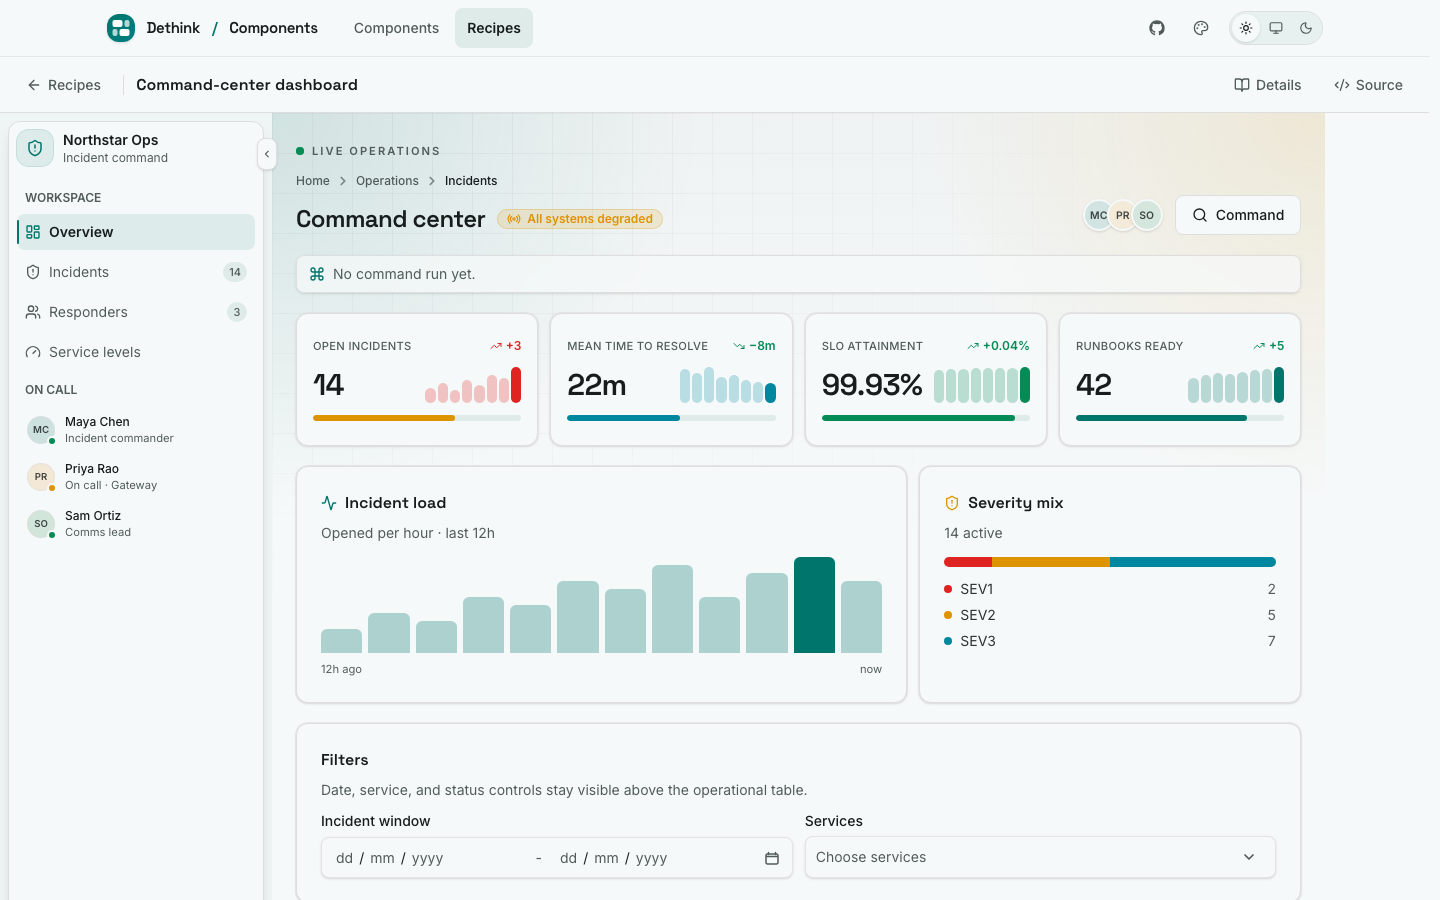
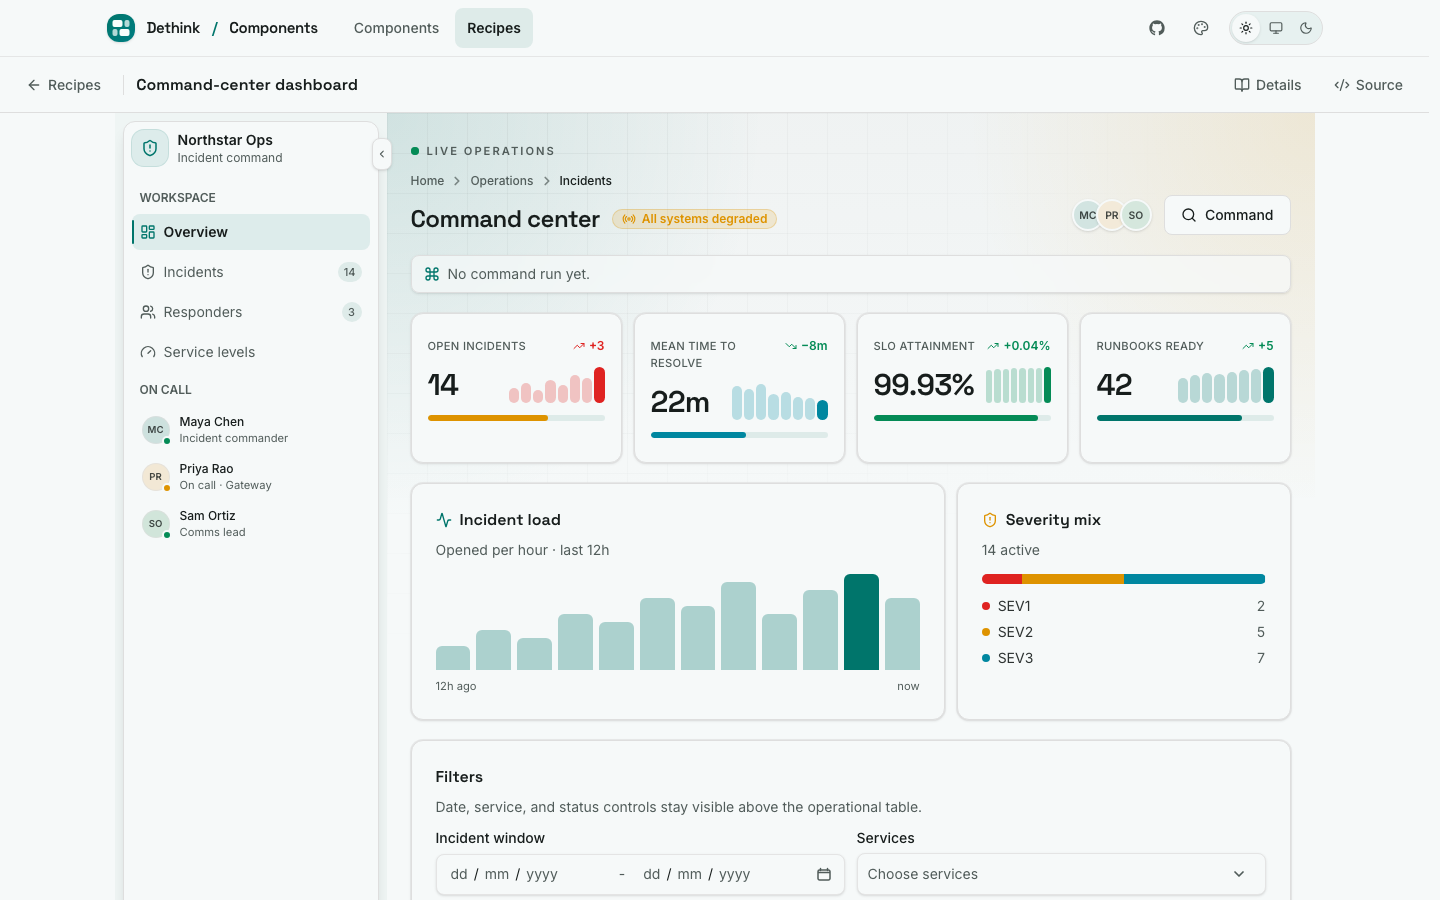
fix: constrain recipe demo width

diff --git a/e2e/showcase-recipe-full-page.spec.ts b/e2e/showcase-recipe-full-page.spec.ts
@@ -54,8 +54,8 @@ test.describe("showcase full-page recipe shell", () => {
       .boundingBox();
 
     expect(previewBounds).not.toBeNull();
-    expect(previewBounds!.x).toBe(0);
-    expect(previewBounds!.width).toBe(layoutWidth);
+    expect(previewBounds!.x).toBeCloseTo((layoutWidth - 1200) / 2, 0);
+    expect(previewBounds!.width).toBe(1200);
     expect(previewBounds!.y).toBeLessThanOrEqual(120);
     expect(previewBounds!.y + previewBounds!.height).toBeGreaterThanOrEqual(
       900,
@@ -150,10 +150,17 @@ test.describe("showcase full-page recipe shell", () => {
         const layoutWidth = await page.evaluate(
           () => document.body.clientWidth,
         );
+        const expectedWidth = Math.min(layoutWidth, 1200);
+        const expectedStart = (layoutWidth - expectedWidth) / 2;
 
         expect(previewBounds, `${slug} preview bounds`).not.toBeNull();
-        expect(previewBounds!.x, `${slug} preview start`).toBe(0);
-        expect(previewBounds!.width, `${slug} preview width`).toBe(layoutWidth);
+        expect(previewBounds!.x, `${slug} preview start`).toBeCloseTo(
+          expectedStart,
+          0,
+        );
+        expect(previewBounds!.width, `${slug} preview width`).toBe(
+          expectedWidth,
+        );
         expect(previewBounds!.y, `${slug} preview top`).toBeLessThanOrEqual(
           120,
         );

diff --git a/apps/showcase/src/app/recipes/[slug]/page.tsx b/apps/showcase/src/app/recipes/[slug]/page.tsx
@@ -93,7 +93,7 @@ export default async function RecipeDetailPage({ params }: RecipePageProps) {
         <RecipeDemoBar title={recipe.title} />
         <div
           data-recipe-preview={recipe.slug}
-          className="sc-recipe-full-page bg-background min-h-[calc(100dvh-7rem)] w-full overflow-x-clip"
+          className="sc-recipe-full-page bg-background mx-auto min-h-[calc(100dvh-7rem)] w-full max-w-[1200px] overflow-x-clip"
         >
           <RecipePreview presentation="full-page" />
         </div>

diff --git a/docs/showcase/full-page-recipe-implementation-notes.md b/docs/showcase/full-page-recipe-implementation-notes.md
@@ -4,6 +4,7 @@
 
 - GitHub PRD: [#394 — Full-page recipe demos](https://github.com/parveshh/dethink-components/issues/394).
 - Completed slices: [#395 — Recipe full-page shell and representative dashboard](https://github.com/parveshh/dethink-components/issues/395), [#396 — Roll full-page demos across the recipe catalog](https://github.com/parveshh/dethink-components/issues/396), and [#397 — Verify full-page recipe journeys and visual quality](https://github.com/parveshh/dethink-components/issues/397).
+- Wide-monitor follow-up: [#399 — Constrain full-page recipe demos to 1200px](https://github.com/parveshh/dethink-components/issues/399) and [#400 — Center full-page recipe canvases at a 1200px maximum](https://github.com/parveshh/dethink-components/issues/400).
 
 ## Approved Direction
 
@@ -20,6 +21,7 @@
 - The compact demo bar occupies 3.5rem and stays below the global header.
 - The live product receives a minimum block size of the dynamic viewport minus both bars.
 - Full width uses the containing page width rather than `100vw`, avoiding scrollbar-induced overflow.
+- The live product canvas uses the full available width up to 1200px and centers itself on wider monitors, preserving the intended proportions of recipe compositions.
 - The outer documentation preview border, radius, maximum width, and padding do not wrap the full-page product.
 - Individual recipes may opt into the `full-page` presentation contract to remove embed-only framing without changing product content.
 
@@ -50,3 +52,4 @@
 - 2026-07-11: Completed #397 with nine focused full-page checks and the complete 44-test Chromium showcase suite. Verification covers every recipe at desktop and mobile widths, natural keyboard order, reduced motion, forced colors, 200%-equivalent reflow, and the full gallery-to-demo-to-details-to-source-to-gallery journey.
 - 2026-07-11: Axe WCAG 2 A/AA scans pass on representative authentication, marketing, dashboard, and AI product surfaces in light and dark mode. The audit also corrected low-contrast supporting labels and status text plus a missing group role in the Command Center responder cluster.
 - 2026-07-11: Added and visually accepted settled production captures for a desktop dashboard, desktop marketing page, mobile authentication flow, and mobile AI workspace. The capture script now waits for fonts and active animations before taking deterministic reduced-motion screenshots.
+- 2026-07-11: Added the #399/#400 wide-monitor refinement. The shared live product canvas is capped at 1200px with fluid width below the cap; the demo bar, viewport-height contract, and below-the-fold documentation remain unchanged.

diff --git a/docs/showcase/final-verification.md b/docs/showcase/final-verification.md
@@ -45,6 +45,7 @@ Desktop captures use 1440×900. Mobile captures use 390×844. Captures use the t
 - Component package: 227 test files and 2,015 tests passed.
 - Showcase end-to-end: all 44 tests passed in Chromium.
 - Full-page recipe contract: all ten canonical recipe routes passed desktop and mobile geometry, viewport coverage, and overflow checks.
+- Wide-monitor recipe contract: the live product canvas remains fluid through 1200px, then centers at a 1200px maximum without changing the full-width demo controls or documentation flow.
 - Full-page recipe journeys: keyboard order, gallery-to-demo-to-details-to-source-to-gallery navigation, reduced motion, 200%-equivalent reflow, and forced-colors focus passed.
 - Axe: no WCAG 2 A/AA violations on the changed homepage, catalog, Button documentation, or recipe gallery in either color scheme.
 - Recipe axe: no WCAG 2 A/AA violations on representative authentication, marketing, dashboard, and AI product surfaces in light or dark mode.
